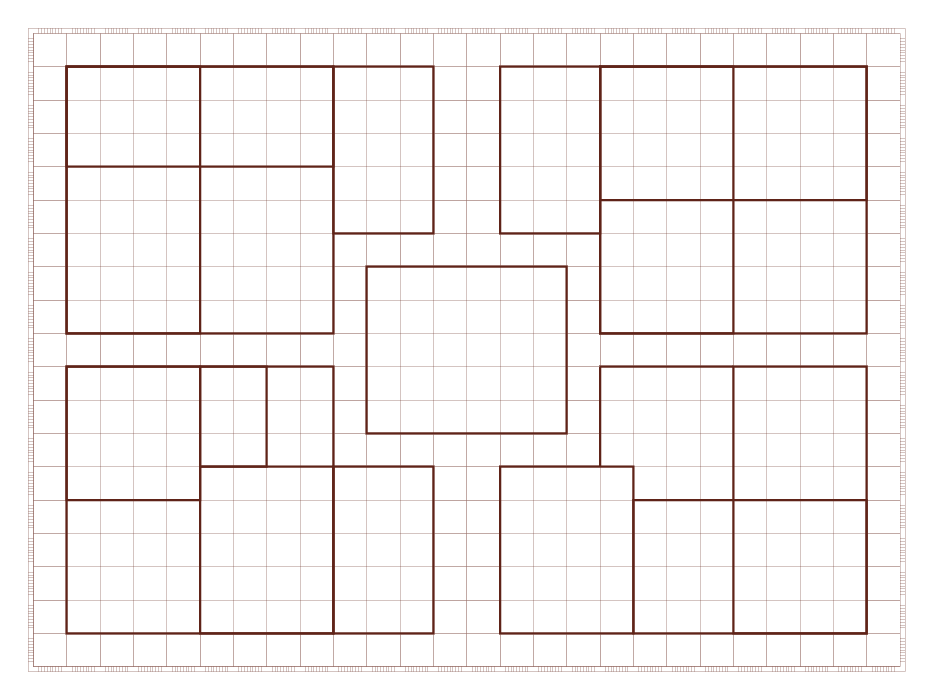
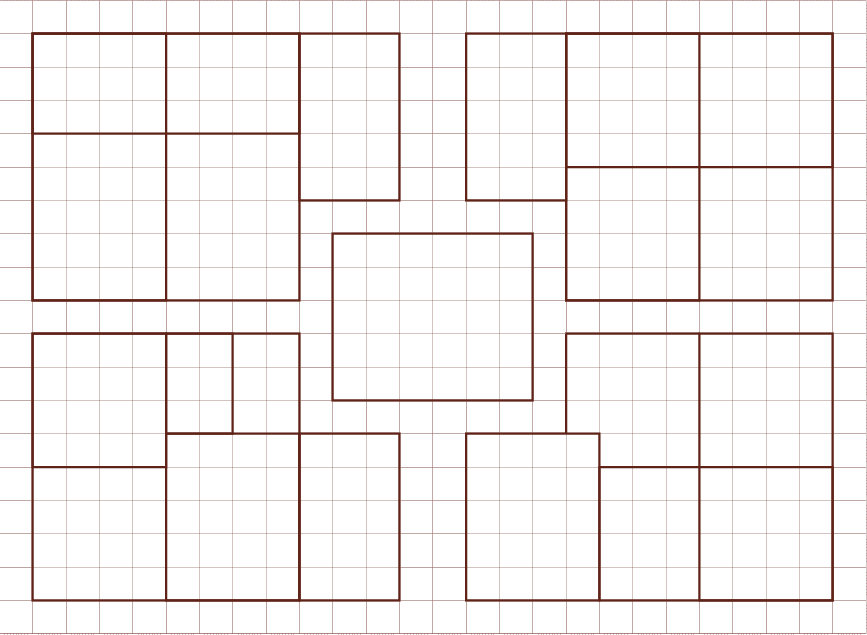
board size modified (no padding) Added rotation support for images

Changed region(s): [[0.0, 0.0, 1.0, 1.0]]

diff --git a/src/components/overlayIconCell.tsx b/src/components/overlayIconCell.tsx
@@ -26,6 +26,8 @@ export function OverlayIconCell({
   const colOffset = icon.colOffset ?? 0;
   const widthCells = icon.widthCells ?? 1;
   const heightCells = icon.heightCells ?? 1;
+  const rotation = icon.rotationDeg ?? 0;
+  const rotationStyle = rotation ? { transform: `rotate(${rotation}deg)`, transformOrigin: "50% 50%" } : undefined;
 
   const top = ((icon.row + rowOffset) / rows) * 100;
   const left = ((icon.col + colOffset) / cols) * 100;
@@ -42,9 +44,9 @@ export function OverlayIconCell({
       onClick={isClickable ? onClick : undefined}
     >
       {showImage ? (
-        <img className="hq-cell-image" src={icon.imageUrl} alt={icon.type} />
+        <img className="hq-cell-image" src={icon.imageUrl} alt={icon.type} style={rotationStyle} />
       ) : (
-        showSymbol && <span className="hq-multi-icon__symbol">{symbol}</span>
+        showSymbol && <span className="hq-multi-icon__symbol" style={rotationStyle}>{symbol}</span>
       )}
     </div>
   );

diff --git a/src/components/iconCell.tsx b/src/components/iconCell.tsx
@@ -9,7 +9,8 @@ type IconCellProps = {
 };
 
 export function IconCell({ icon, isVisible, isClickable, symbol, onClick }: IconCellProps) {
-
+  const rotation = icon?.rotationDeg ?? 0;
+  const rotationStyle = rotation ? { transform: `rotate(${rotation}deg)`, transformOrigin: "50% 50%" } : undefined;
   const showImage = !!icon?.imageUrl && isVisible;
   const showSymbol = !!symbol && isVisible && !showImage;
 
@@ -19,10 +20,11 @@ export function IconCell({ icon, isVisible, isClickable, symbol, onClick }: Icon
       onClick={isClickable ? onClick : undefined}
     >
       {showImage && (
-        <img className="hq-cell-image" src={icon!.imageUrl} />
+        <img className="hq-cell-image" src={icon!.imageUrl} style={rotationStyle}
+        />
       )}
       {showSymbol && (
-        <span className="hq-cell-icon" >
+        <span className="hq-cell-icon" style={rotationStyle} >
           {symbol}
         </span>
       )}

diff --git a/src/App.css b/src/App.css
@@ -10,7 +10,6 @@
 }
 
 
-
 .container {
   position: relative;
   text-align: center;
@@ -41,8 +40,8 @@
 
 .hq-board {
   --board-size: min(100vw - 32px, 2480px); /* loosen cap so board can grow wider */
-  --grid-pad-x: calc(100% / 26);     /* tweak this to align with left/right border thickness */
-  --grid-pad-y: calc(100% / 19);     /* tweak this to align with top/bottom border thickness */
+  --grid-pad-x: 0;     /* tweak this to align with left/right border thickness */
+  --grid-pad-y: 0;     /* tweak this to align with top/bottom border thickness */
   --cell-size: calc(var(--board-size) / 26);
   --icon-font: calc(var(--cell-size) * 0.9); /* scale symbols with board */
   position: relative;

diff --git a/src/data/mapHotSpots.ts b/src/data/mapHotSpots.ts
@@ -18,7 +18,7 @@ export const MAP_HOT_SPOTS: MapHotSpot[] = [
         { id: 21, row: 9, col: 1, type: "bloque", visible: false, imageUrl:"./icons/Bloque.png"},
         { id: 22, row: 8, col: 9, type: "bloque", visible: false, imageUrl:"./icons/Bloque.png" },
         { id: 23, row: 10, col: 9, type: "bloque", visible: false, imageUrl:"./icons/Bloque.png" },
-        { id: 24, row: 8, col: 3, rowOffset:0.5, colOffset:0, type: "door", visible: false, imageUrl:"./icons/Door.png" },
+        { id: 24, row: 8, col: 3, rowOffset:0.5, colOffset:0, type: "door", visible: false, imageUrl:"./icons/Door.png", rotationDeg: 90 },
         
     ]
   },

diff --git a/src/types/mapIcon.ts b/src/types/mapIcon.ts
@@ -11,6 +11,7 @@ interface MapIcon {
   type: IconType;
   imageUrl?: string;
   visible: boolean;
+  rotationDeg?: number; // optional rotation (e.g. 90, 180) applied to the rendered icon
 }
 
 export type { IconType, MapIcon };
